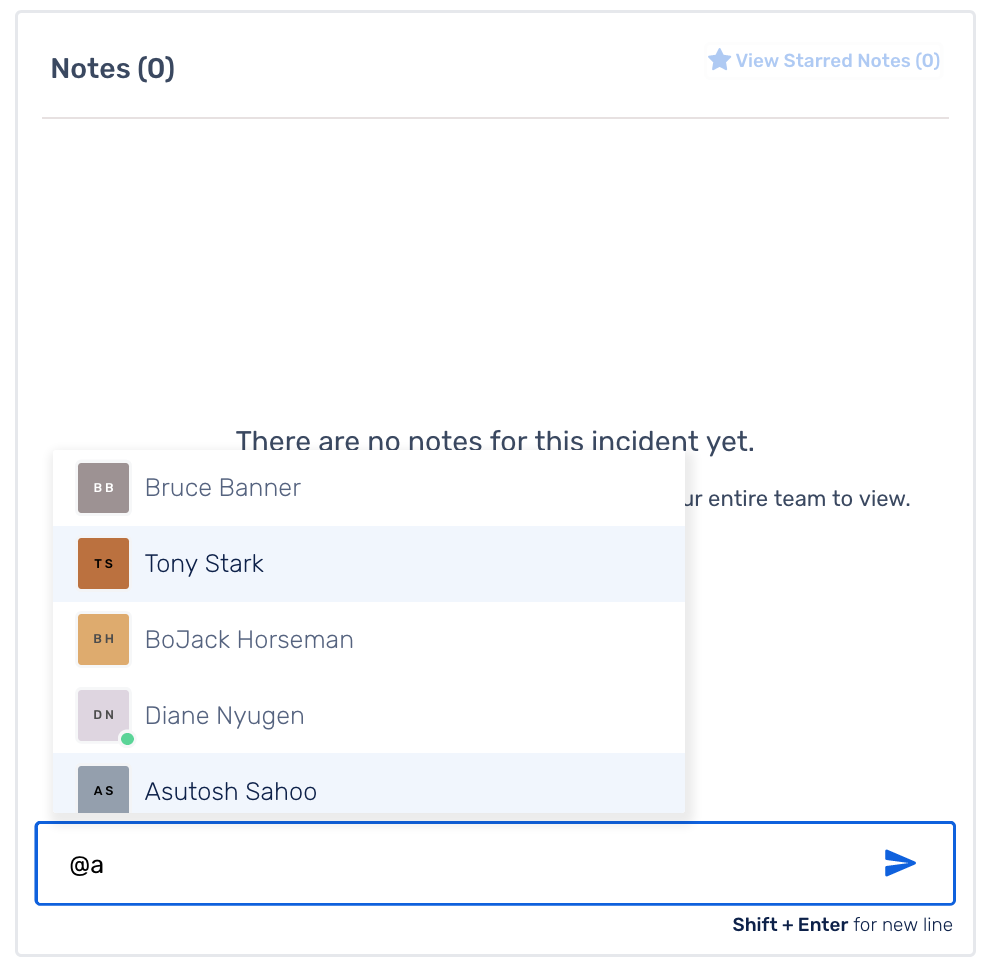
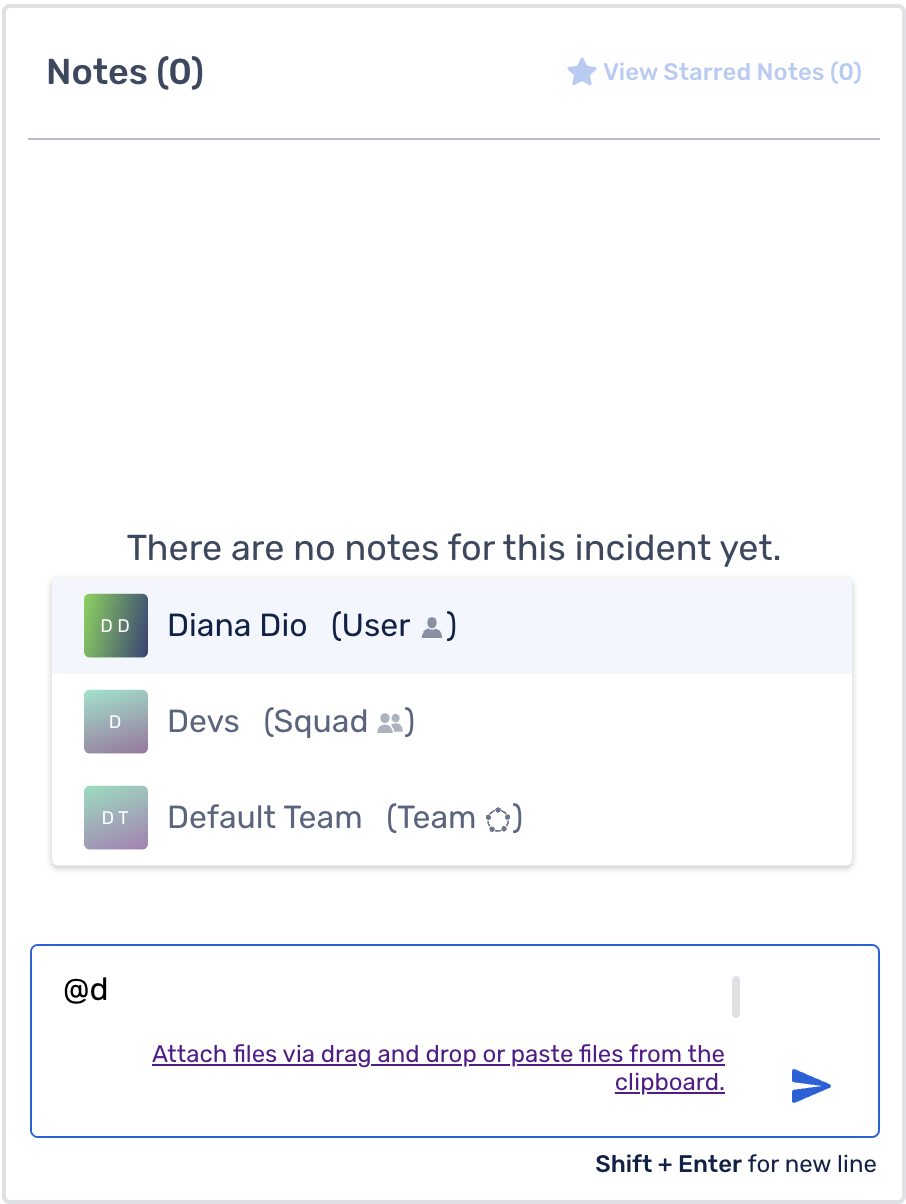
feat: mention notes and teams in squads

diff --git a/pages/mydoc/incident_notes.md b/pages/mydoc/incident_notes.md
@@ -37,7 +37,8 @@ First, select the **Team** from the team picker on the top.
 
 ### Mentioning Users in Notes
 
-- Users can callout other users in the Team using the "@" symbol for important notes. This can also be used to inform users of a specific need, information or as a means to notify your **Stakeholders** on information pertaining to the status of an ongoing incident
+- Users can callout other users using the "@" symbol for important notes. This can also be used to inform users of a specific need, information or as a means to notify your **Stakeholders** on information pertaining to the status of an ongoing incident
+- Users can also notify all the users in a particular Squad or a Team by "@" mentioning the Squad or the Team name.
 
 ![](images/incident_notes_2.png)
 
